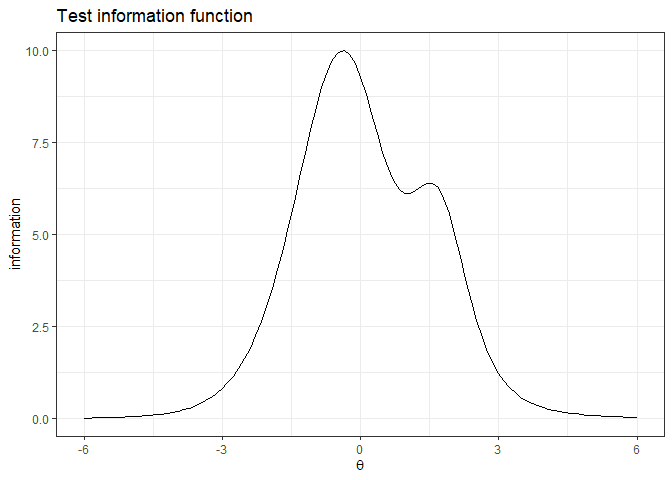
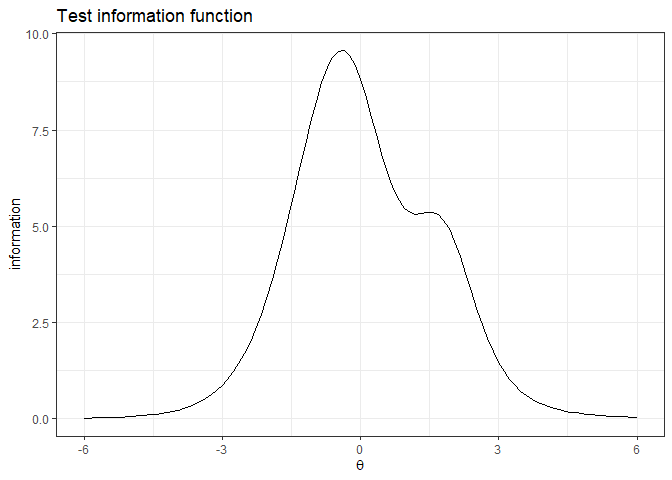
Errors on the convergence partially resolved.

diff --git a/README.md b/README.md
@@ -42,7 +42,7 @@ For the development version, it can be installed on R-console with:
 
 ## Functions
 
-Followings are functions of **IRTest**.
+Followings are the functions of **IRTest**.
 
 - `IRTest_Dich` is the estimation function when all items are
   *dichotomously* scored.
@@ -118,8 +118,7 @@ used for the estimation of latent distribution.
 Mod1 <- 
   IRTest_Dich(
     data = data,
-    latent_dist = "DC",
-    h=7
+    latent_dist = "KDE"
     )
 ```
 
@@ -128,35 +127,35 @@ Mod1 <-
 ``` r
 summary(Mod1)
 #> Convergence:  
-#> Successfully converged below the threshold of 1e-04 on 40th iterations. 
+#> Successfully converged below the threshold of 1e-04 on 23rd iterations. 
 #> 
 #> Model Fit:  
-#>    deviance   18390.3 
-#>         AIC   18484.3 
-#>         BIC   18714.96 
+#>    deviance   18383.84 
+#>         AIC   18465.84 
+#>         BIC   18667.05 
 #> 
 #> The Number of Parameters:  
 #>        item   40 
-#>        dist   7 
-#>       total   47 
+#>        dist   1 
+#>       total   41 
 #> 
 #> The Number of Items:  
 #> dichotomous   20 
 #> polyotomous   0 
 #> 
 #> The Estimated Latent Distribution:  
-#> method - DC 
+#> method - KDE 
 #> ----------------------------------------
 #>                                           
 #>                                           
 #>                                           
-#>                       . . @ .             
-#>                 . . @ @ @ @ @ .           
-#>           . @ @ @ @ @ @ @ @ @ @ .         
-#>         @ @ @ @ @ @ @ @ @ @ @ @ @         
-#>       @ @ @ @ @ @ @ @ @ @ @ @ @ @ @       
-#>     @ @ @ @ @ @ @ @ @ @ @ @ @ @ @ @ .     
-#> . @ @ @ @ @ @ @ @ @ @ @ @ @ @ @ @ @ @ .   
+#>                       @ @ @               
+#>                   . @ @ @ @ @             
+#>         . @ @ @ @ @ @ @ @ @ @ @           
+#>       . @ @ @ @ @ @ @ @ @ @ @ @ @         
+#>     . @ @ @ @ @ @ @ @ @ @ @ @ @ @ .       
+#>   . @ @ @ @ @ @ @ @ @ @ @ @ @ @ @ @ .     
+#> . @ @ @ @ @ @ @ @ @ @ @ @ @ @ @ @ @ @ @ . 
 #> +---------+---------+---------+---------+
 #> -2        -1        0         1         2
 ```
@@ -214,26 +213,26 @@ True item parameters
 
 |    a |     b |   c |
 |-----:|------:|----:|
-| 1.50 | -0.26 |   0 |
-| 1.25 | -0.94 |   0 |
-| 1.81 | -0.81 |   0 |
-| 1.44 | -0.56 |   0 |
-| 1.85 | -0.14 |   0 |
-| 1.22 | -0.96 |   0 |
-| 2.03 | -0.46 |   0 |
-| 2.00 |  1.35 |   0 |
-| 1.19 |  1.46 |   0 |
-| 1.11 |  1.61 |   0 |
-| 1.86 | -1.43 |   0 |
-| 2.24 | -0.04 |   0 |
-| 0.77 |  0.71 |   0 |
-| 2.25 |  0.00 |   0 |
-| 1.57 | -1.07 |   0 |
-| 2.58 |  1.83 |   0 |
-| 2.21 | -0.65 |   0 |
-| 2.73 |  1.64 |   0 |
-| 1.22 |  0.92 |   0 |
-| 1.94 | -0.68 |   0 |
+| 1.47 | -0.28 |   0 |
+| 1.22 | -0.97 |   0 |
+| 1.77 | -0.84 |   0 |
+| 1.41 | -0.58 |   0 |
+| 1.81 | -0.15 |   0 |
+| 1.19 | -0.99 |   0 |
+| 1.98 | -0.48 |   0 |
+| 1.88 |  1.41 |   0 |
+| 1.14 |  1.51 |   0 |
+| 1.05 |  1.68 |   0 |
+| 1.84 | -1.46 |   0 |
+| 2.20 | -0.05 |   0 |
+| 0.75 |  0.73 |   0 |
+| 2.19 | -0.01 |   0 |
+| 1.54 | -1.10 |   0 |
+| 2.29 |  1.98 |   0 |
+| 2.16 | -0.68 |   0 |
+| 2.44 |  1.76 |   0 |
+| 1.18 |  0.94 |   0 |
+| 1.90 | -0.71 |   0 |
 
 Estimated item parameters
 
@@ -315,26 +314,26 @@ ggplot(data=post_sample, mapping=aes(x=X))+
 ``` r
 item_fit(Mod1)
 #>         stat df p.value
-#> 1  11.240810  7  0.1285
-#> 2  10.438912  7  0.1650
-#> 3  19.624820  7  0.0064
-#> 4   8.723559  7  0.2731
-#> 5   7.915895  7  0.3401
-#> 6  13.248208  7  0.0663
-#> 7   4.677790  7  0.6992
-#> 8  15.438317  7  0.0308
-#> 9   9.976055  7  0.1899
-#> 10 15.982290  7  0.0253
-#> 11  5.272871  7  0.6267
-#> 12  9.582016  7  0.2135
-#> 13  7.152190  7  0.4132
-#> 14 24.813763  7  0.0008
-#> 15 14.465369  7  0.0435
-#> 16 19.649980  7  0.0064
-#> 17  8.145667  7  0.3199
-#> 18 66.917846  7  0.0000
-#> 19 18.906368  7  0.0085
-#> 20 10.737711  7  0.1505
+#> 1  13.047984  7  0.0709
+#> 2   8.733441  7  0.2724
+#> 3  19.383423  7  0.0071
+#> 4   6.878263  7  0.4417
+#> 5  11.073217  7  0.1355
+#> 6  13.956565  7  0.0520
+#> 7   4.423842  7  0.7299
+#> 8  14.847199  7  0.0380
+#> 9   9.801792  7  0.2001
+#> 10 18.212654  7  0.0110
+#> 11  6.074096  7  0.5311
+#> 12  9.842054  7  0.1977
+#> 13  7.715410  7  0.3584
+#> 14 26.761115  7  0.0004
+#> 15 18.045903  7  0.0118
+#> 16 17.342742  7  0.0153
+#> 17  9.696964  7  0.2064
+#> 18 41.352840  7  0.0000
+#> 19 19.068656  7  0.0080
+#> 20 11.382014  7  0.1228
 ```
 
 - Item response function
@@ -356,15 +355,15 @@ grid.arrange(p1, p2, p3, p4, ncol=2, nrow=2)
 reliability(Mod1)
 #> $rel.summed.score.test
 #> test reliability 
-#>        0.8806951 
+#>        0.8798594 
 #> 
 #> $rel.summed.score.item
 #>         1         2         3         4         5         6         7         8 
-#> 0.3081466 0.2234867 0.3538156 0.2862139 0.3887192 0.2164527 0.4200541 0.2669627 
+#> 0.3059621 0.2192103 0.3503349 0.2841813 0.3877848 0.2114709 0.4183149 0.2753318 
 #>         9        10        11        12        13        14        15        16 
-#> 0.1549640 0.1349175 0.2907841 0.4644806 0.1090059 0.4638354 0.2823802 0.2295097 
+#> 0.1577073 0.1344473 0.2829392 0.4631938 0.1094399 0.4606663 0.2779550 0.2363950 
 #>        17        18        19        20 
-#> 0.4421841 0.2790354 0.1980922 0.3894833
+#> 0.4400902 0.2898488 0.1994503 0.3873396
 ```
 
 - Test information function
